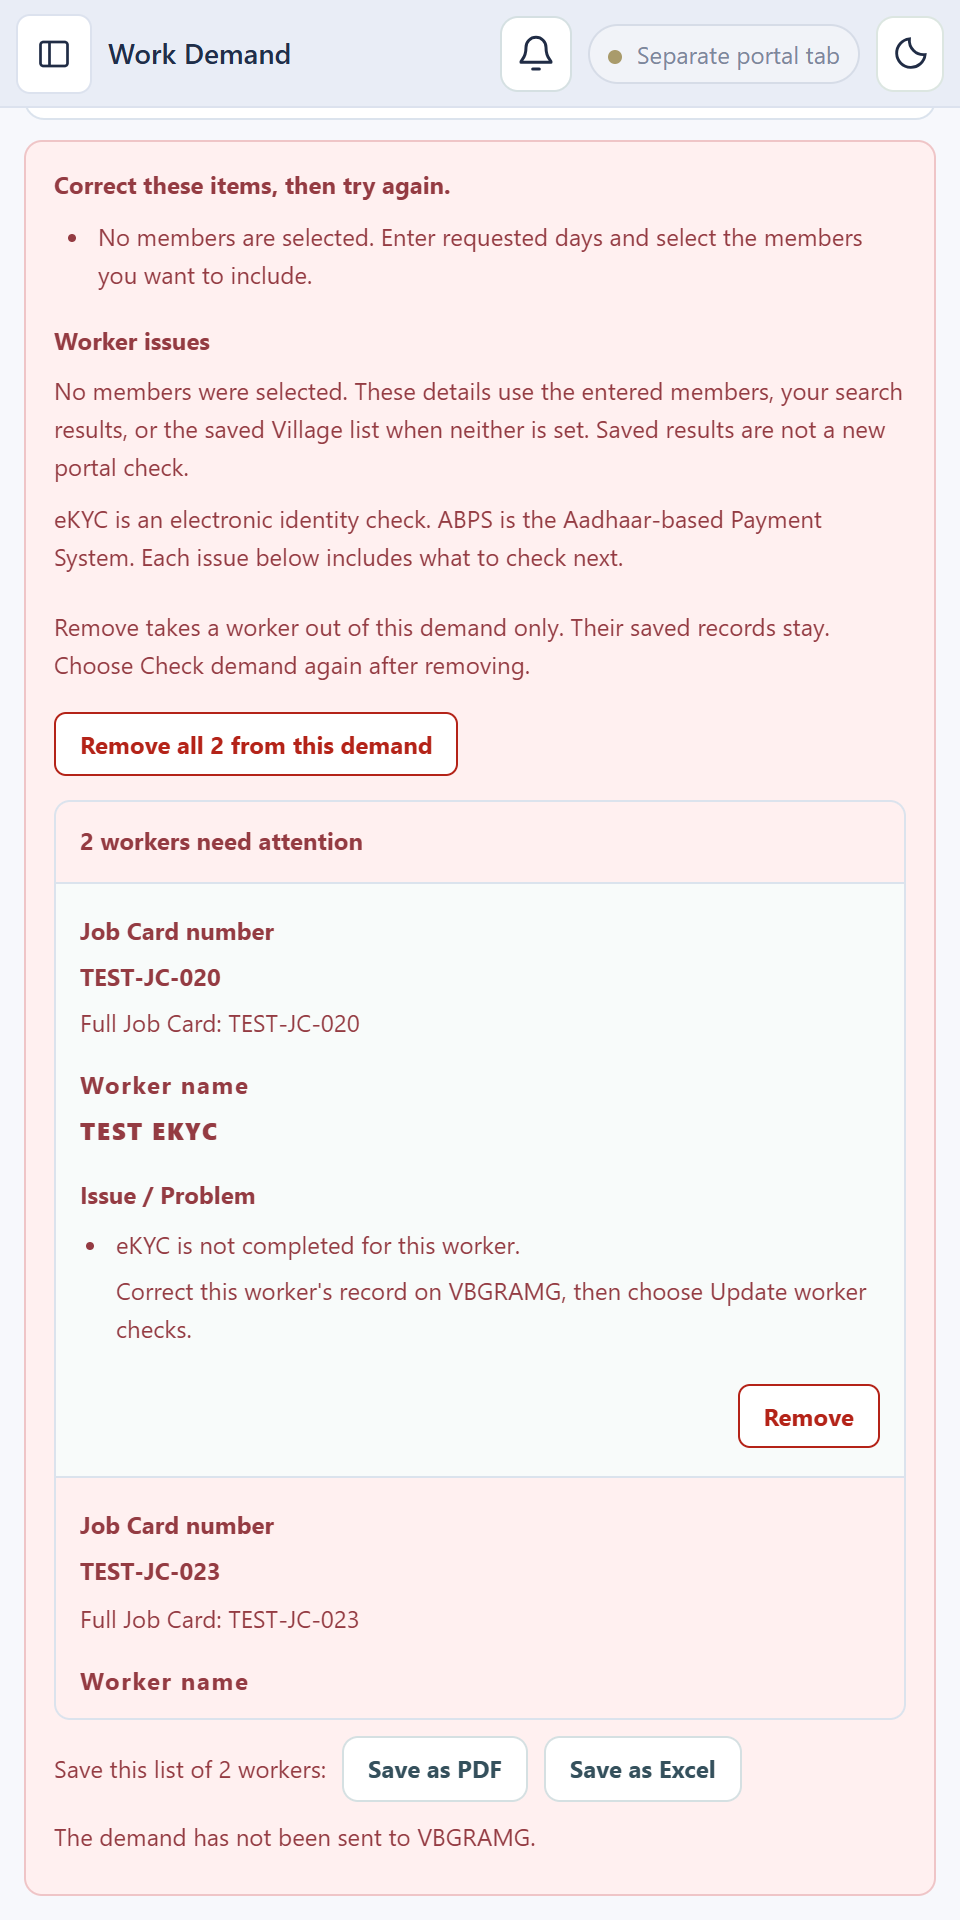
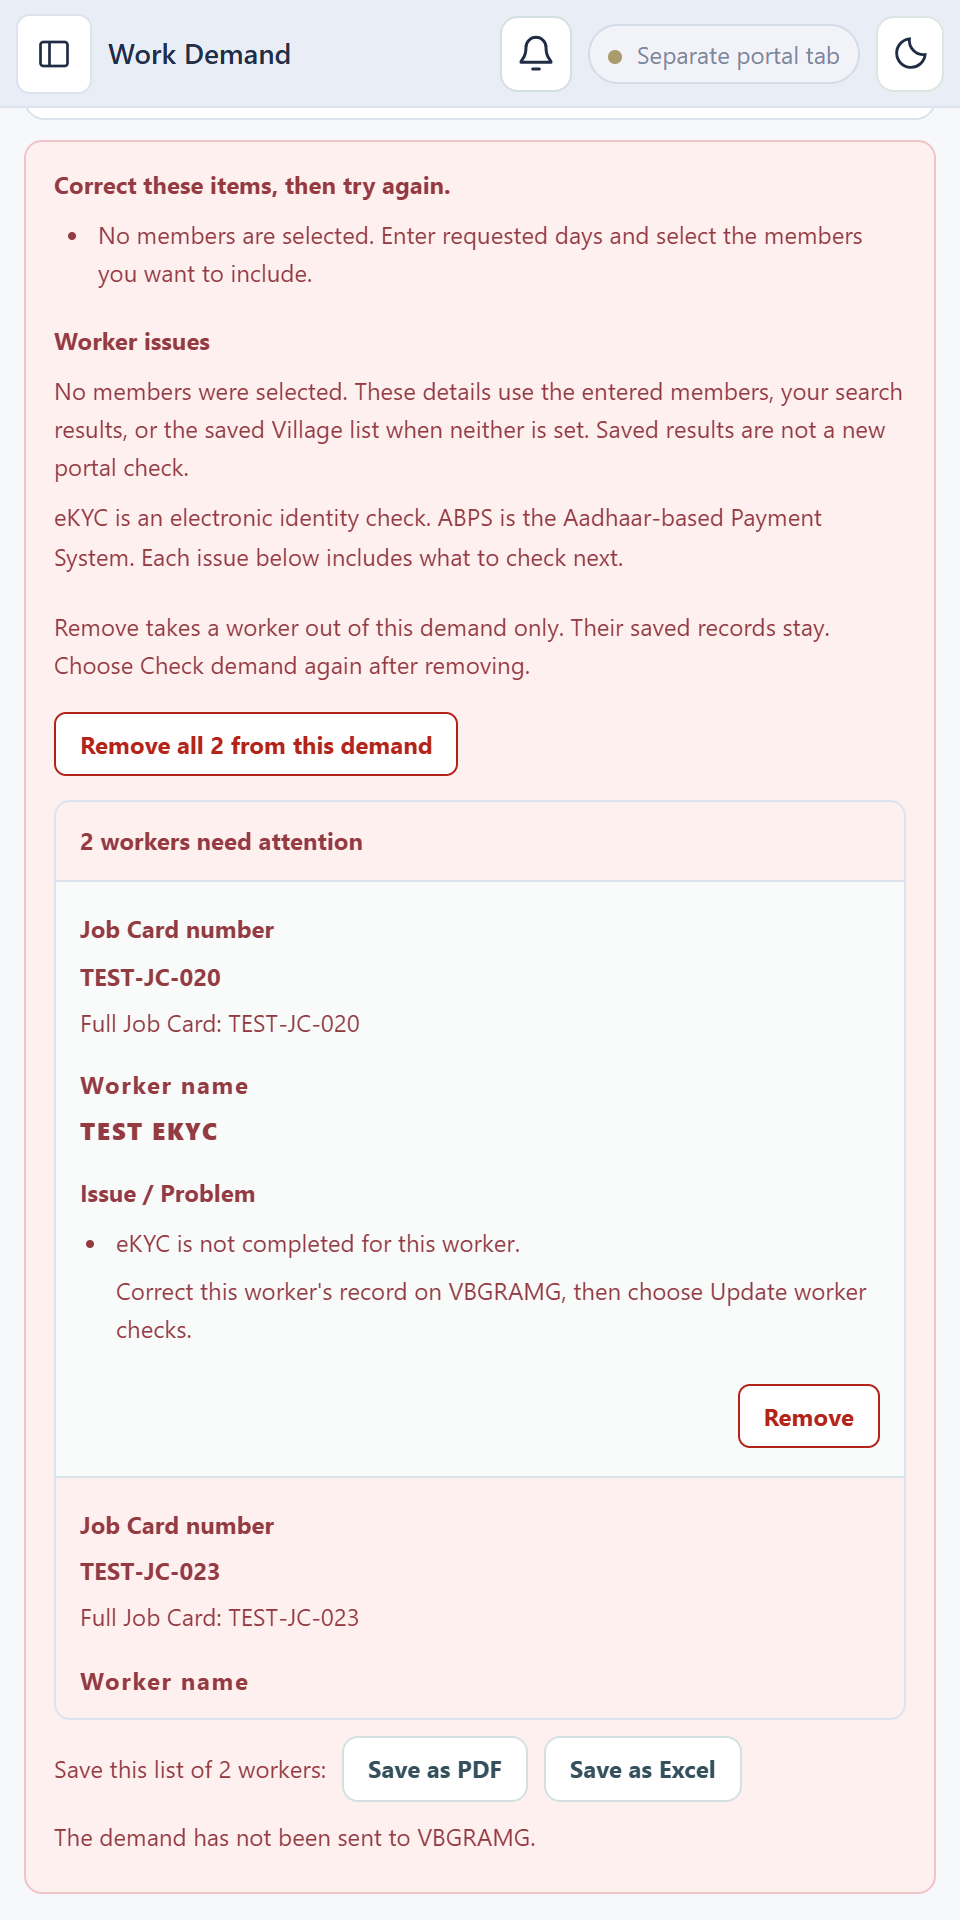
Refresh app showcase, 15 fictional previews and plain-English guides

diff --git a/README.md b/README.md
@@ -46,16 +46,16 @@ Progress reads family records together to avoid repeated lookups. Worker-check c
 
 ## Download
 
-Published downloads: desktop **1.4.28**, Android **1.4.28**.
+Published downloads: desktop **1.4.29**, Android **1.4.28**.
 
 | Device | Download |
 | --- | --- |
-| Windows 64-bit | [Download 1.4.28](https://github.com/Changtey/Worker-Demand-releases/releases/download/v1.4.28/VBGRAMG-DEO-Assistant-1.4.28-Setup.exe) |
-| Linux Debian / Ubuntu | [Download 1.4.28](https://github.com/Changtey/Worker-Demand-releases/releases/download/v1.4.28/VBGRAMG-DEO-Assistant-1.4.28-Linux-x64.deb) |
-| Linux AppImage | [Download 1.4.28](https://github.com/Changtey/Worker-Demand-releases/releases/download/v1.4.28/VBGRAMG-DEO-Assistant-1.4.28-Linux-x64.AppImage) |
+| Windows 64-bit | [Download 1.4.29](https://github.com/Changtey/Worker-Demand-releases/releases/download/v1.4.29/VBGRAMG-DEO-Assistant-1.4.29-Setup.exe) |
+| Linux Debian / Ubuntu | [Download 1.4.29](https://github.com/Changtey/Worker-Demand-releases/releases/download/v1.4.29/VBGRAMG-DEO-Assistant-1.4.29-Linux-x64.deb) |
+| Linux AppImage | [Download 1.4.29](https://github.com/Changtey/Worker-Demand-releases/releases/download/v1.4.29/VBGRAMG-DEO-Assistant-1.4.29-Linux-x64.AppImage) |
 | Android APK | [Download 1.4.28](https://github.com/Changtey/Worker-Demand-releases/releases/download/v1.4.28/Worker-Demand-1.4.28.apk) |
 
-[Release notes and checksums](https://github.com/Changtey/Worker-Demand-releases/releases/tag/v1.4.28).
+[Release notes and checksums](https://github.com/Changtey/Worker-Demand-releases/releases/tag/v1.4.29).
 
 Check the linked release notes for tested systems and remaining limits. Windows publisher signing is still pending for the current test release.
 
@@ -104,7 +104,7 @@ The app follows the portal's offered **State → District → Block → Panchaya
 
 ## See the app
 
-**Screens captured for desktop 1.4.28 and Android 1.4.28 · 2026-11-03.**
+**Screens captured for desktop 1.4.29 and Android 1.4.28 · 2026-11-03.**
 
 All 15 pictures use fictional records. **Android** pictures show the current Android screens at phone size. **Desktop preview** pictures show the current desktop app in a narrow window; they do not mean that desktop tools are available in Android. Open any picture for the full size. The pictures do not show a real office account or an official submission.
 
@@ -200,13 +200,9 @@ Work Demand charging was turned on after the app publication. Browser automation
 
 This online service update applies to the existing app downloads. The recharge package stays ₹50 for 50 Balance. No installation file was replaced. The earlier release notes describe the charging setting at the time they were written.
 
-**Published 1.4.28**
+**Published 1.4.29**
 
-- **Work Allocation check fixed.** Since 31 October the final check stopped on any unusual row in the Panchayat&#x27;s Work Allocation list, such as a blank footer row or another person&#x27;s row, so no entered worker was confirmed. Now an unclear row holds back only the worker it may belong to. Every other worker is still…
-- **Large lists are entered in planned parts.** The portal takes new Work Demands only while fewer than 100 people in a Panchayat are waiting for Work Allocation. Before entry starts, the app counts the people already waiting (read-only) and plans the parts. After each part it stops, you allocate work on the portal,…
-- **You are told when Balance is used.** Each Work Demand charge shows a **Balance used for Work Demand** notice in the bell: how much was used, for how many saved and checked workers, the area, any part owed and the Balance left. A new one also shows as a Windows notification. **Mark as read** removes it.
-- **Work Demand price: 1 Balance for every 20 workers** (21–40 workers use 2; 100 workers use 5). A run that stops part-way pays only for the workers whose demand was saved and checked, and the rest of the set-aside Balance is released. These rules are on the online service already; this update shows them correctly…
-- **Update now shows the installation.** The app downloads and checks the update, closes, and a small installer window shows the progress. The updated app then opens by itself. Before, nothing showed for about 40 seconds, so it looked as if the update had failed.
-- **Muster Roll Reports.** Generate opens the portal report page first, so any Security Code is answered before anything is saved or Balance is held. You still type the code yourself. Report pages load faster, a page that does not open is tried twice more, and one failed Muster Roll no longer stops its Panchayat. The…
+- **Totals for the selected workers only.** Under the worker list, in both **Create demand** and **Received requests**, the totals now count only the workers you selected: **Job Cards selected**, **Members selected** and **Days requested**. **Days worked** and **Workdays left** show the shared totals of the selected…
+- **Serial numbers.** Every Job Card heading and every worker in the list has a serial number, such as **1. Job Card · …** and **1. Worker name**. The numbers continue on the next page.
 
 See [latest changes and their release status](docs/LATEST_CHANGES.md). The public repository holds downloads and guides. App building files and office records stay on the owner's computer.

diff --git a/docs/LATEST_CHANGES.md b/docs/LATEST_CHANGES.md
@@ -2,20 +2,20 @@
 
 [Home](../README.md) · [User guide](USER_GUIDE.md) · [Features](FEATURES.md)
 
-**Screens captured for desktop 1.4.28 and Android 1.4.28 · 2026-11-03.**
+**Screens captured for desktop 1.4.29 and Android 1.4.28 · 2026-11-03.**
 
 ## Published apps
 
-Published downloads: desktop **1.4.28**, Android **1.4.28**.
+Published downloads: desktop **1.4.29**, Android **1.4.28**.
 
 | Device | Download |
 | --- | --- |
-| Windows 64-bit | [Download 1.4.28](https://github.com/Changtey/Worker-Demand-releases/releases/download/v1.4.28/VBGRAMG-DEO-Assistant-1.4.28-Setup.exe) |
-| Linux Debian / Ubuntu | [Download 1.4.28](https://github.com/Changtey/Worker-Demand-releases/releases/download/v1.4.28/VBGRAMG-DEO-Assistant-1.4.28-Linux-x64.deb) |
-| Linux AppImage | [Download 1.4.28](https://github.com/Changtey/Worker-Demand-releases/releases/download/v1.4.28/VBGRAMG-DEO-Assistant-1.4.28-Linux-x64.AppImage) |
+| Windows 64-bit | [Download 1.4.29](https://github.com/Changtey/Worker-Demand-releases/releases/download/v1.4.29/VBGRAMG-DEO-Assistant-1.4.29-Setup.exe) |
+| Linux Debian / Ubuntu | [Download 1.4.29](https://github.com/Changtey/Worker-Demand-releases/releases/download/v1.4.29/VBGRAMG-DEO-Assistant-1.4.29-Linux-x64.deb) |
+| Linux AppImage | [Download 1.4.29](https://github.com/Changtey/Worker-Demand-releases/releases/download/v1.4.29/VBGRAMG-DEO-Assistant-1.4.29-Linux-x64.AppImage) |
 | Android APK | [Download 1.4.28](https://github.com/Changtey/Worker-Demand-releases/releases/download/v1.4.28/Worker-Demand-1.4.28.apk) |
 
-[Release notes and checksums](https://github.com/Changtey/Worker-Demand-releases/releases/tag/v1.4.28).
+[Release notes and checksums](https://github.com/Changtey/Worker-Demand-releases/releases/tag/v1.4.29).
 
 The linked release notes describe what was built, checked and published. A current source picture does not update an installed app or replace an installation file.
 
@@ -49,14 +49,10 @@ Work Demand charging was turned on after the app publication. Browser automation
 
 This online service update applies to the existing app downloads. The recharge package stays ₹50 for 50 Balance. No installation file was replaced. The earlier release notes describe the charging setting at the time they were written.
 
-**Published 1.4.28**
+**Published 1.4.29**
 
-- **Work Allocation check fixed.** Since 31 October the final check stopped on any unusual row in the Panchayat&#x27;s Work Allocation list, such as a blank footer row or another person&#x27;s row, so no entered worker was confirmed. Now an unclear row holds back only the worker it may belong to. Every other worker is still…
-- **Large lists are entered in planned parts.** The portal takes new Work Demands only while fewer than 100 people in a Panchayat are waiting for Work Allocation. Before entry starts, the app counts the people already waiting (read-only) and plans the parts. After each part it stops, you allocate work on the portal,…
-- **You are told when Balance is used.** Each Work Demand charge shows a **Balance used for Work Demand** notice in the bell: how much was used, for how many saved and checked workers, the area, any part owed and the Balance left. A new one also shows as a Windows notification. **Mark as read** removes it.
-- **Work Demand price: 1 Balance for every 20 workers** (21–40 workers use 2; 100 workers use 5). A run that stops part-way pays only for the workers whose demand was saved and checked, and the rest of the set-aside Balance is released. These rules are on the online service already; this update shows them correctly…
-- **Update now shows the installation.** The app downloads and checks the update, closes, and a small installer window shows the progress. The updated app then opens by itself. Before, nothing showed for about 40 seconds, so it looked as if the update had failed.
-- **Muster Roll Reports.** Generate opens the portal report page first, so any Security Code is answered before anything is saved or Balance is held. You still type the code yourself. Report pages load faster, a page that does not open is tried twice more, and one failed Muster Roll no longer stops its Panchayat. The…
+- **Totals for the selected workers only.** Under the worker list, in both **Create demand** and **Received requests**, the totals now count only the workers you selected: **Job Cards selected**, **Members selected** and **Days requested**. **Days worked** and **Workdays left** show the shared totals of the selected…
+- **Serial numbers.** Every Job Card heading and every worker in the list has a serial number, such as **1. Job Card · …** and **1. Worker name**. The numbers continue on the next page.
 
 These pictures were refreshed from the source used for this publication.
 

diff --git a/docs/USER_GUIDE.md b/docs/USER_GUIDE.md
@@ -2,7 +2,7 @@
 
 [Home](../README.md) · [Feature list](FEATURES.md) · [Latest changes](LATEST_CHANGES.md)
 
-**Screens captured for desktop 1.4.28 and Android 1.4.28 · 2026-11-03.**
+**Screens captured for desktop 1.4.29 and Android 1.4.28 · 2026-11-03.**
 
 Screenshots use fictional people and areas. Android and desktop are labelled separately. Your assigned areas and the portal's current lists determine what you can see.
 
@@ -86,16 +86,16 @@ The sidebar shows one line for each tool. Point at a tool to read a short explan
 
 Your selected Panchayat and Village stay in place while Received requests and background records are checked. Changing a Panchayat updates its Village choices. Use **Update lists** when you need to read an area list again. The earlier choices stay visible during that read and if it fails; choose **Try again** after a failure. Changing a parent area clears only the choices below it.
 
-Published downloads: desktop **1.4.28**, Android **1.4.28**.
+Published downloads: desktop **1.4.29**, Android **1.4.28**.
 
 | Device | Download |
 | --- | --- |
-| Windows 64-bit | [Download 1.4.28](https://github.com/Changtey/Worker-Demand-releases/releases/download/v1.4.28/VBGRAMG-DEO-Assistant-1.4.28-Setup.exe) |
-| Linux Debian / Ubuntu | [Download 1.4.28](https://github.com/Changtey/Worker-Demand-releases/releases/download/v1.4.28/VBGRAMG-DEO-Assistant-1.4.28-Linux-x64.deb) |
-| Linux AppImage | [Download 1.4.28](https://github.com/Changtey/Worker-Demand-releases/releases/download/v1.4.28/VBGRAMG-DEO-Assistant-1.4.28-Linux-x64.AppImage) |
+| Windows 64-bit | [Download 1.4.29](https://github.com/Changtey/Worker-Demand-releases/releases/download/v1.4.29/VBGRAMG-DEO-Assistant-1.4.29-Setup.exe) |
+| Linux Debian / Ubuntu | [Download 1.4.29](https://github.com/Changtey/Worker-Demand-releases/releases/download/v1.4.29/VBGRAMG-DEO-Assistant-1.4.29-Linux-x64.deb) |
+| Linux AppImage | [Download 1.4.29](https://github.com/Changtey/Worker-Demand-releases/releases/download/v1.4.29/VBGRAMG-DEO-Assistant-1.4.29-Linux-x64.AppImage) |
 | Android APK | [Download 1.4.28](https://github.com/Changtey/Worker-Demand-releases/releases/download/v1.4.28/Worker-Demand-1.4.28.apk) |
 
-[Release notes and checksums](https://github.com/Changtey/Worker-Demand-releases/releases/tag/v1.4.28).
+[Release notes and checksums](https://github.com/Changtey/Worker-Demand-releases/releases/tag/v1.4.29).
 
 ### Find the next task
 
@@ -235,7 +235,7 @@ The Browser is a desktop feature. The narrow preview shows its controls; it does
 3. Use **Show household members** beside a Job Card to see its workers and saved checks. Scroll the table sideways on a narrow screen for the other columns.
 4. Use **Update from VBGRAMG** when records need updating. Keep an incomplete or unknown result open for review.
 
-Job Card members share the household's days left. A missing total means **Not known**, not zero. Village totals cover the saved Village; searching and paging change the list, not those totals.
+Job Card members share the household's days left. A missing total means **Not known**, not zero. The totals under the list count only the selected workers: **Job Cards selected**, **Members selected**, **Days requested**, and the shared **Days worked** and **Workdays left** of each selected Job Card (counted once). Every Job Card and worker has a serial number, which continues on the next page.
 
 ## 6. Make a work request on Android
 

diff --git a/docs/FEATURES.md b/docs/FEATURES.md
@@ -2,7 +2,7 @@
 
 [Home](../README.md) · [User guide](USER_GUIDE.md) · [Latest changes](LATEST_CHANGES.md)
 
-**Screens captured for desktop 1.4.28 and Android 1.4.28 · 2026-11-03.**
+**Screens captured for desktop 1.4.29 and Android 1.4.28 · 2026-11-03.**
 
 - **Learn and practise:** [watch the nine-part tutorial](https://changtey.github.io/Worker-Demand-releases/learn/classroom.html), [try the guided practice app](https://changtey.github.io/Worker-Demand-releases/learn/practice.html) or [open full-size app pictures](https://changtey.github.io/Worker-Demand-releases/learn/screenshots.html). The practice copy uses sample records and ends at Check demand.
 
@@ -21,7 +21,7 @@
 
 - **Print Demand before sending:** a coloured button on the left opens a draft copy of selected workers and their own requested dates. Save PDF or open the print window before portal entry. All selected list pages are included, with Job Card counts and total requested days. The copy stays marked as a draft; current checks and portal safeguards still apply. Desktop and web preview feature.
 
-- **Simple day calculation:** use the 125-day Job Card total. Days left = 125 minus days worked; days worked = 125 minus days left. One saved value fills the missing value without another portal request. When a member's own worked days are missing, the desktop shows the shared figure as **Job Card total**. Village totals count that family once. Both missing values stay unknown. Existing reported values and report warnings are kept.
+- **Simple day calculation:** use the 125-day Job Card total. Days left = 125 minus days worked; days worked = 125 minus days left. One saved value fills the missing value without another portal request. When a member's own worked days are missing, the desktop shows the shared figure as **Job Card total**. The totals for selected workers count that family once. Both missing values stay unknown. Existing reported values and report warnings are kept.
 - **Optional day columns:** Worked and Days left stay hidden until you turn them on; each choice is saved. Saved and calculated day figures never change entered days or hold up a Work Demand.
 - **One area at a time:** the active tab's Panchayat or Village gets the download turn. Even within one Panchayat, Villages download one by one. Other public, worker-check and Muster Roll reads wait when they belong to another area. A page already loading may finish before the new area starts. Changing area keeps completed records and unfinished progress. Recent household pages and matching requests are shared instead of downloaded twice.
 - **Clear download order:** Settings shows **Queued**, **Downloading**, **Paused**, **Completed** and **Failed** beside the areas in the current download queue. Saved counts remain visible while another area has priority. Changing area wakes the next read without waiting for the regular background check. Temporary report interruptions retry automatically, keeping completed records. The progress panel names the recovering stage and its next attempt. A failed or unfinished report stays incomplete.
